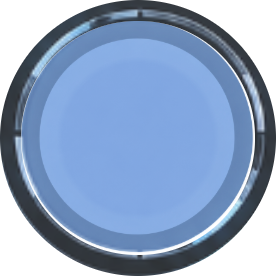
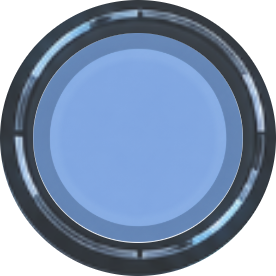
Widen node rings and add subtle spacing

Changed region(s): [[0.058, 0.058, 0.9275, 0.9275]]

diff --git a/index.html b/index.html
@@ -230,7 +230,7 @@
 <!-- 软件目录 / 专业资料库 / 使用教程数据不在首屏加载，切到对应视图时按需注入。 -->
 <script defer src="assets/app/shared.js"></script>
 <script defer src="assets/app/runtime-loader.js"></script>
-<script defer src="assets/app/graph-view.js?v=20260909-local-layout-2"></script>
+<script defer src="assets/app/graph-view.js?v=20260910-node-art-2"></script>
 <script defer src="assets/app/learning-view.js"></script>
 <script defer src="assets/app/deepdive-view.js"></script>
 <script defer src="assets/reading.js"></script>

diff --git a/assets/app/graph-view.js b/assets/app/graph-view.js
@@ -179,7 +179,7 @@
             "label": "data(label)",
             "background-color": ele => NODE_ART[ele.data("domain")] || "#888",
             "background-image": ele => NODE_ART[ele.data("domain")]
-              ? new URL(`assets/node-art/${ele.data("domain")}.png`, document.baseURI).href : "none",
+              ? new URL(`assets/node-art/${ele.data("domain")}.png?v=2`, document.baseURI).href : "none",
             "background-fit": "contain",
             "background-width": "100%",
             "background-height": "100%",
